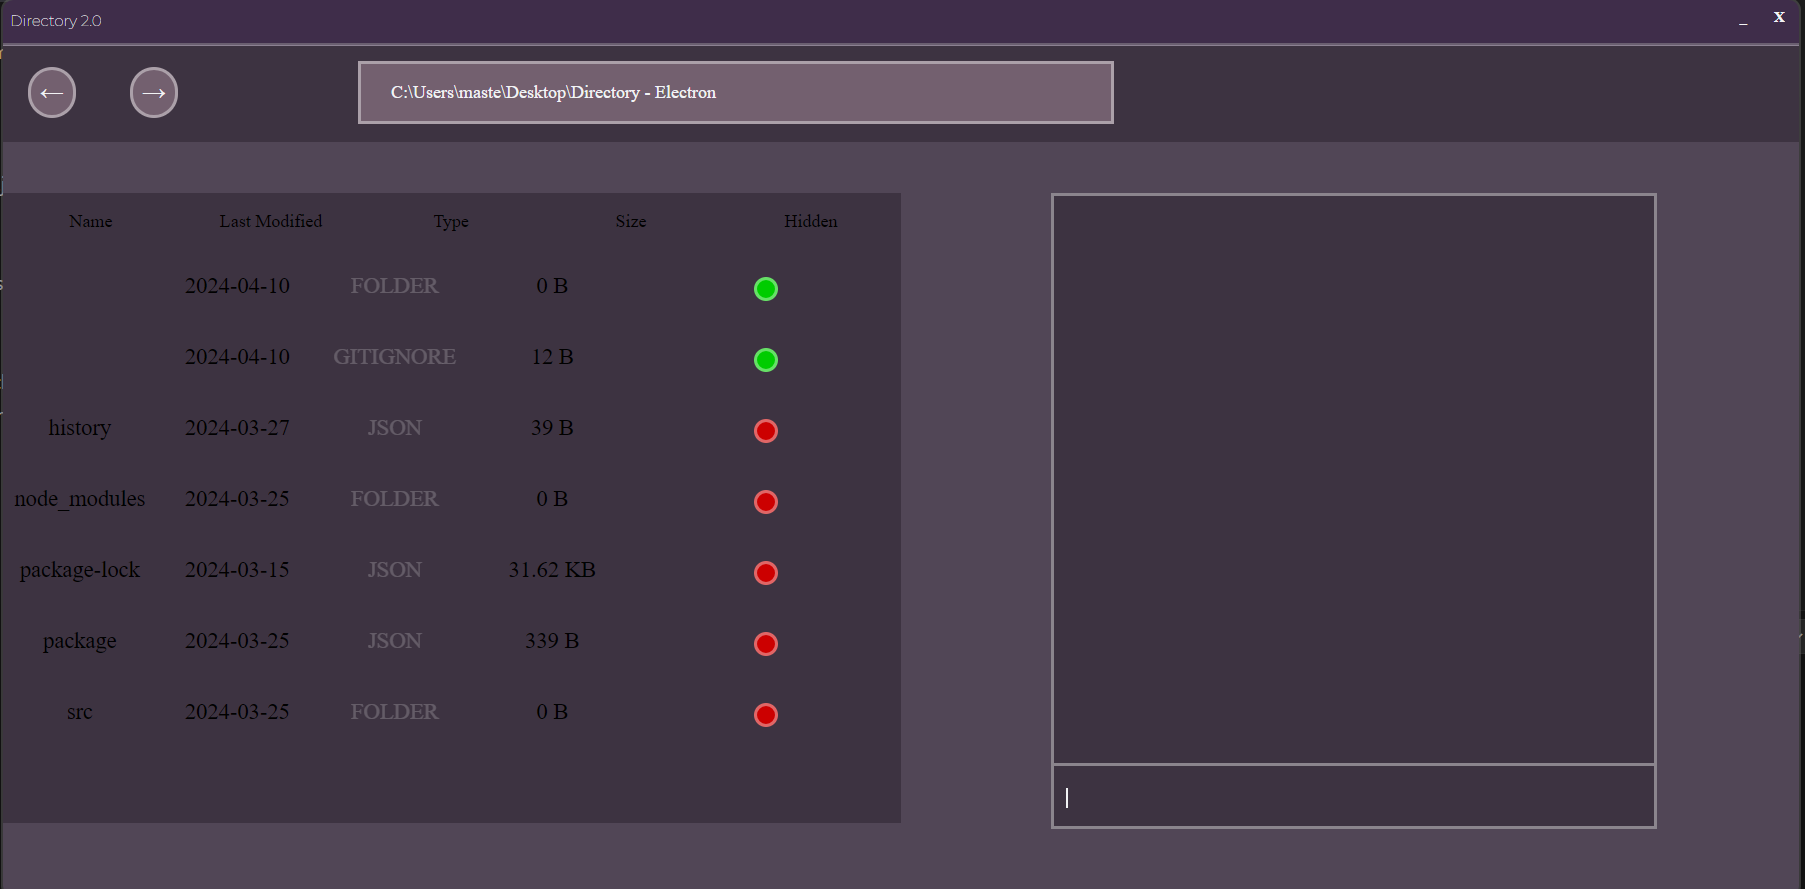
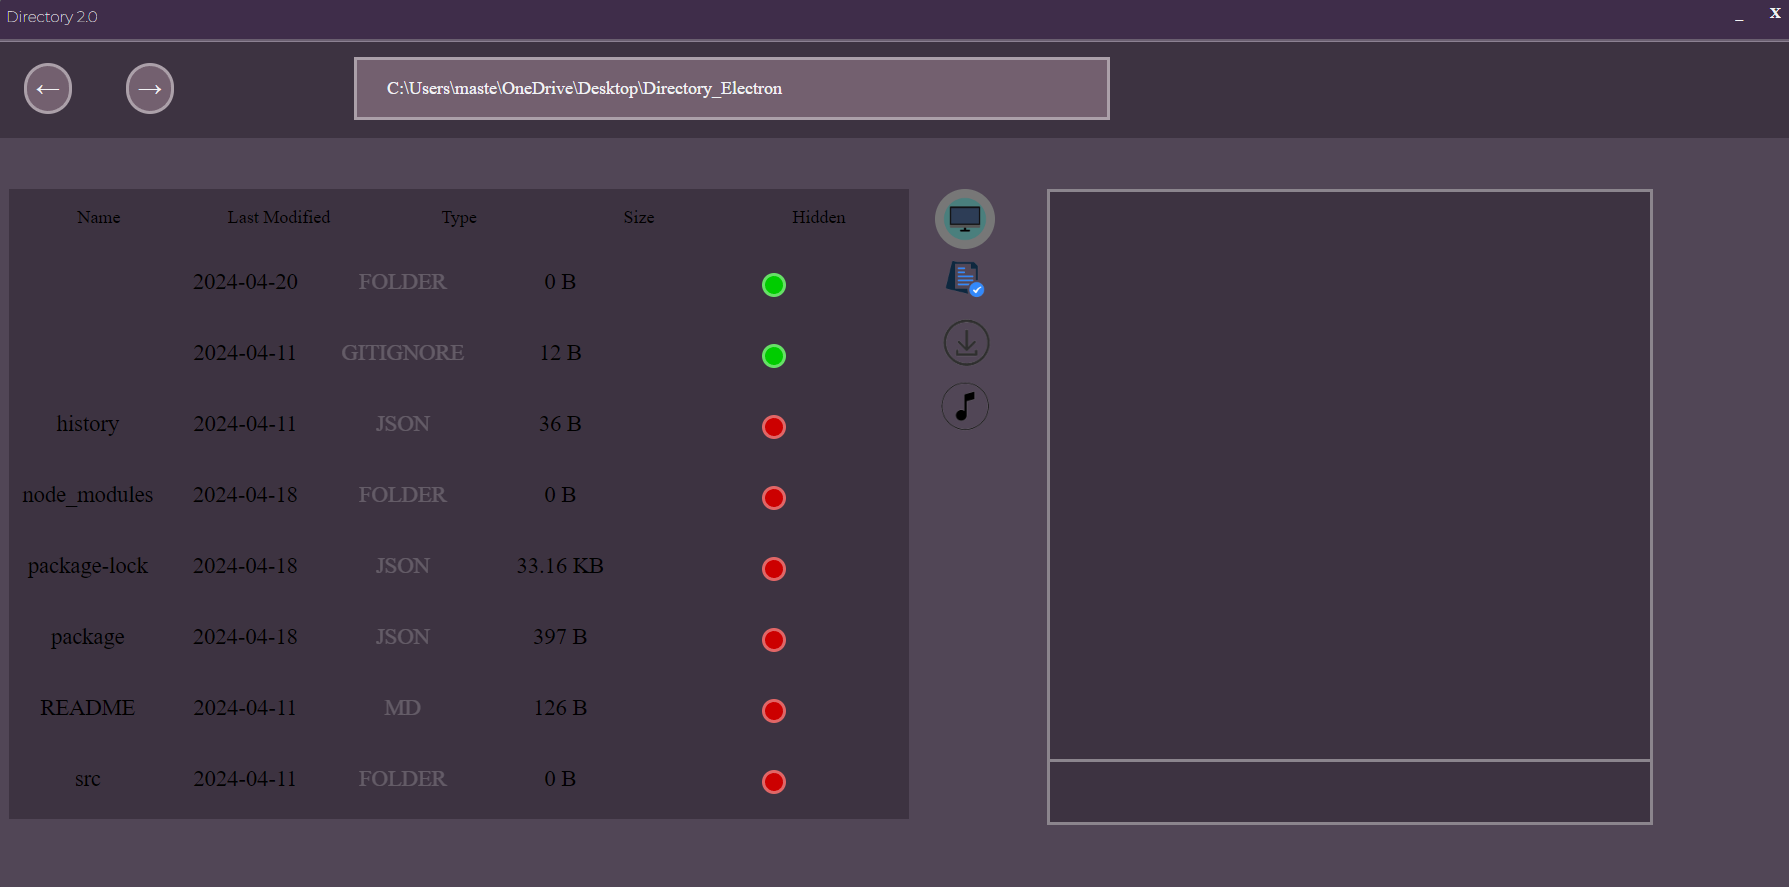
Updated README preview, added cls command

diff --git a/src/js/commands.js b/src/js/commands.js
@@ -12,20 +12,6 @@ class YTDownload {
     }
 }
 
-class Test {
-    static description = "A test command for development purposes.";
-    static async execute(window, dir, ...params) {
-        return [true];
-    }
-}
-
-class TestError {
-    static description = "A test command for development purposes.";
-    static async execute(window, dir, ...params) {
-        return [false, "test error"];
-    }
-}
-
 class Exec {
     static description = "Executes a windows command. Any relavent output is displayed.\n<i>Syntax: exec [command + arguments]</i>";
     static async execute(window, dir, ...params) {
@@ -45,6 +31,9 @@ class NJSMake {
     static coroutines = {};
     static async execute(window, dir, ...params) {
         let name = params.splice(0, 1)[0];
+        if (this.coroutines[name] != undefined) {
+            return [false, `A Coroutine with the name [${name}] already exists!`];
+        }
         function createCallbackFromString(codeString) {
             try {
                 const func = new Function('data', codeString);
@@ -74,13 +63,20 @@ class Help {
     }
 }
 
+class Clear {
+    static description = "Clears the terminal output.";
+    static async execute(window, dir, ...params) {
+        window.webContents.send("clearOutput");
+        return [true];
+    }
+}
+
 const commandDict = {
     'ytdown': YTDownload,
-    'test': Test,
-    'err': TestError,
     'exec': Exec,
     'njs-make': NJSMake,
-    'help': Help
+    'help': Help,
+    'cls': Clear
 }
 
 

diff --git a/src/js/terminal.js b/src/js/terminal.js
@@ -54,3 +54,9 @@ window.api.on("displayOutput", str => {
                 ${str}
             </p>`
 })
+
+window.api.on("clearOutput", () => {
+    setTimeout(() => {
+        output.innerHTML = "";
+    }, 100);
+})
